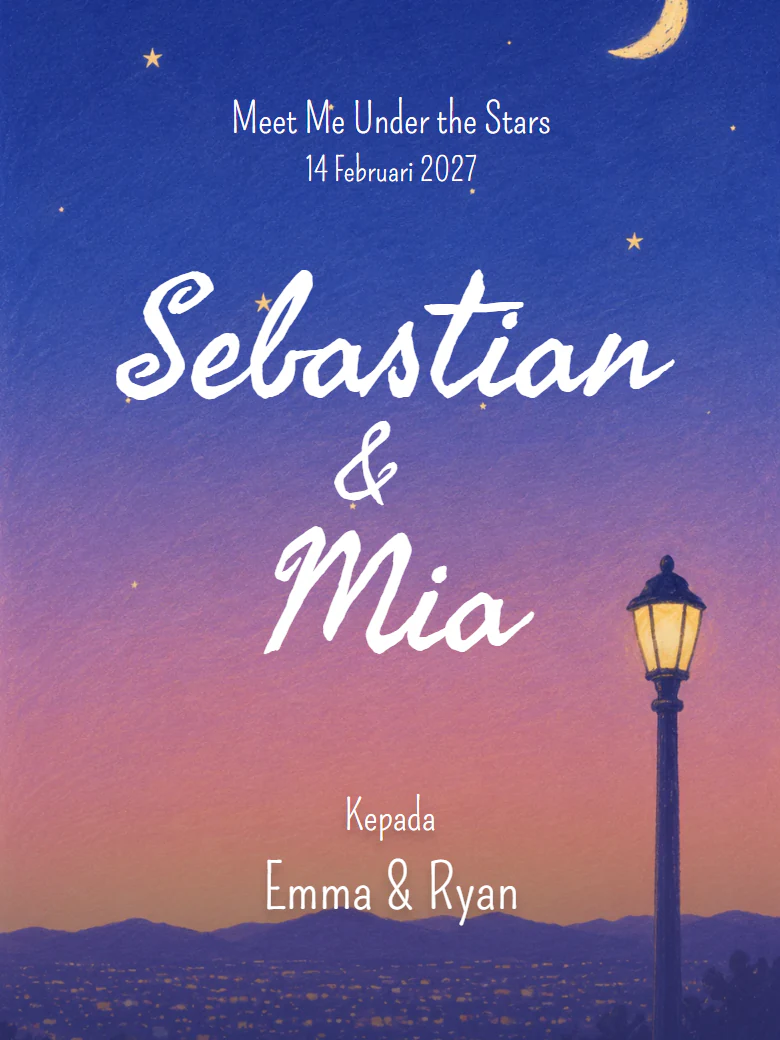
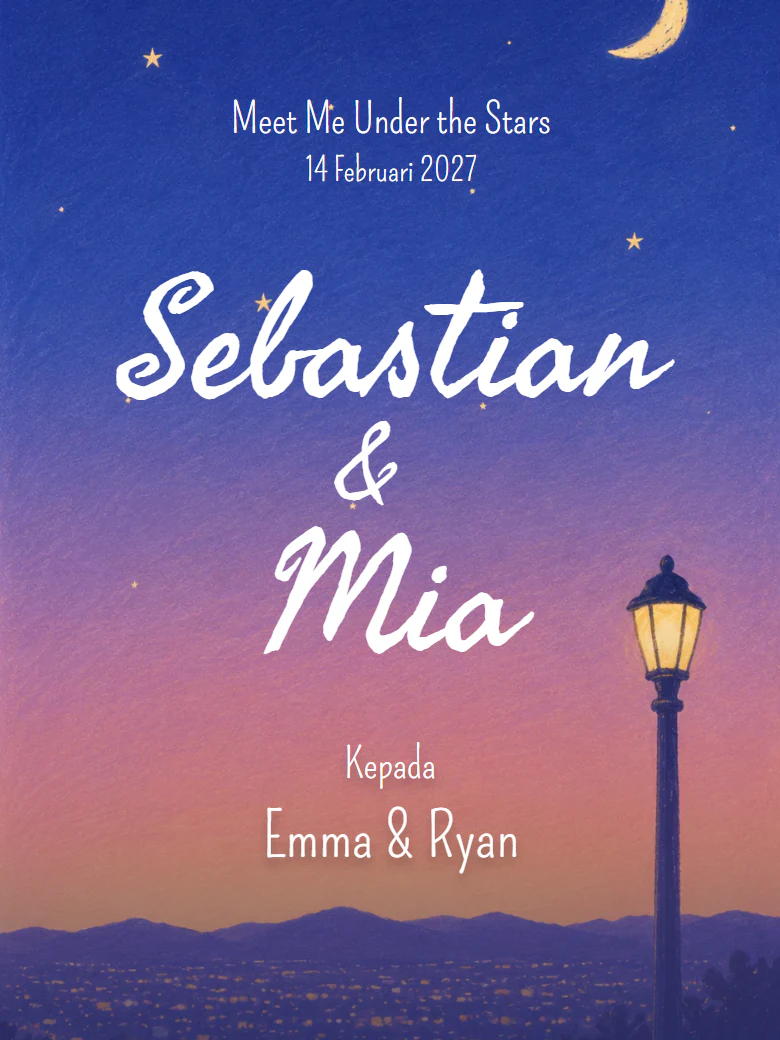
even out la la land thumbnail spacing, use hyphen in page title
Moves Kepada and Emma & Ryan up in the catalog thumbnail so the gap below
Mia matches the gap between the date and Sebastian. The live cover is
unchanged. Also switches the page title's em dash to a hyphen.

Changed region(s): [[0.3385, 0.7077, 0.6769, 0.8923]]

diff --git a/index.html b/index.html
@@ -8,7 +8,7 @@
     <link href="https://fonts.googleapis.com/css2?family=Cormorant+Garamond:ital,wght@0,300;0,400;0,500;0,600;0,700;1,300;1,400&display=swap" rel="stylesheet" />
     <link href="https://fonts.googleapis.com/css2?family=Courier+Prime:ital,wght@0,400;0,700;1,400&family=Lora:ital,wght@0,400;0,500;0,600;1,400&display=swap" rel="stylesheet" />
     <link href="https://fonts.googleapis.com/css2?family=Poppins:wght@300;400;500;600;700&family=Inter:wght@300;400;500;600;700&family=Playfair+Display:ital,wght@0,400;0,500;0,600;0,700;1,400;1,600;1,700&family=Crimson+Text:ital,wght@0,400;0,600;1,400&family=Montserrat:wght@300;400;500;600&family=Big+Shoulders+Display:wght@700&family=Fasthand&family=Pompiere&family=Federo&family=Raleway:wght@400;700&display=swap" rel="stylesheet" />
-    <title>nicemice — Modern Digital Wedding Invitations & Websites</title>
+    <title>nicemice - Modern Digital Wedding Invitations & Websites</title>
   </head>
   <body class="bg-[#FAF9F6] text-zinc-800 antialiased font-sans">
     <div id="root"></div>
